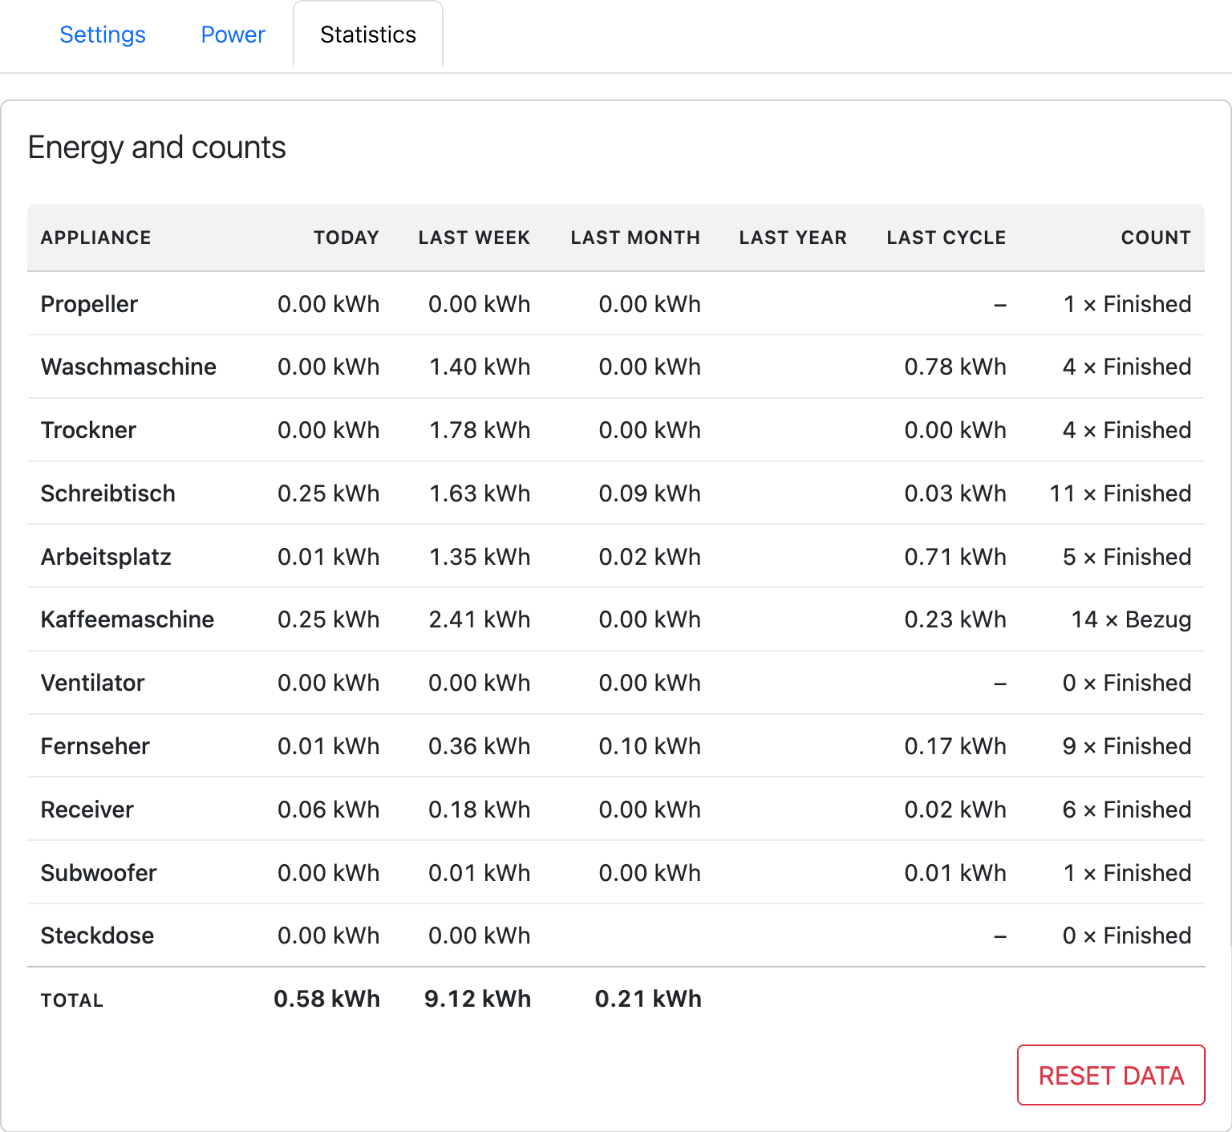
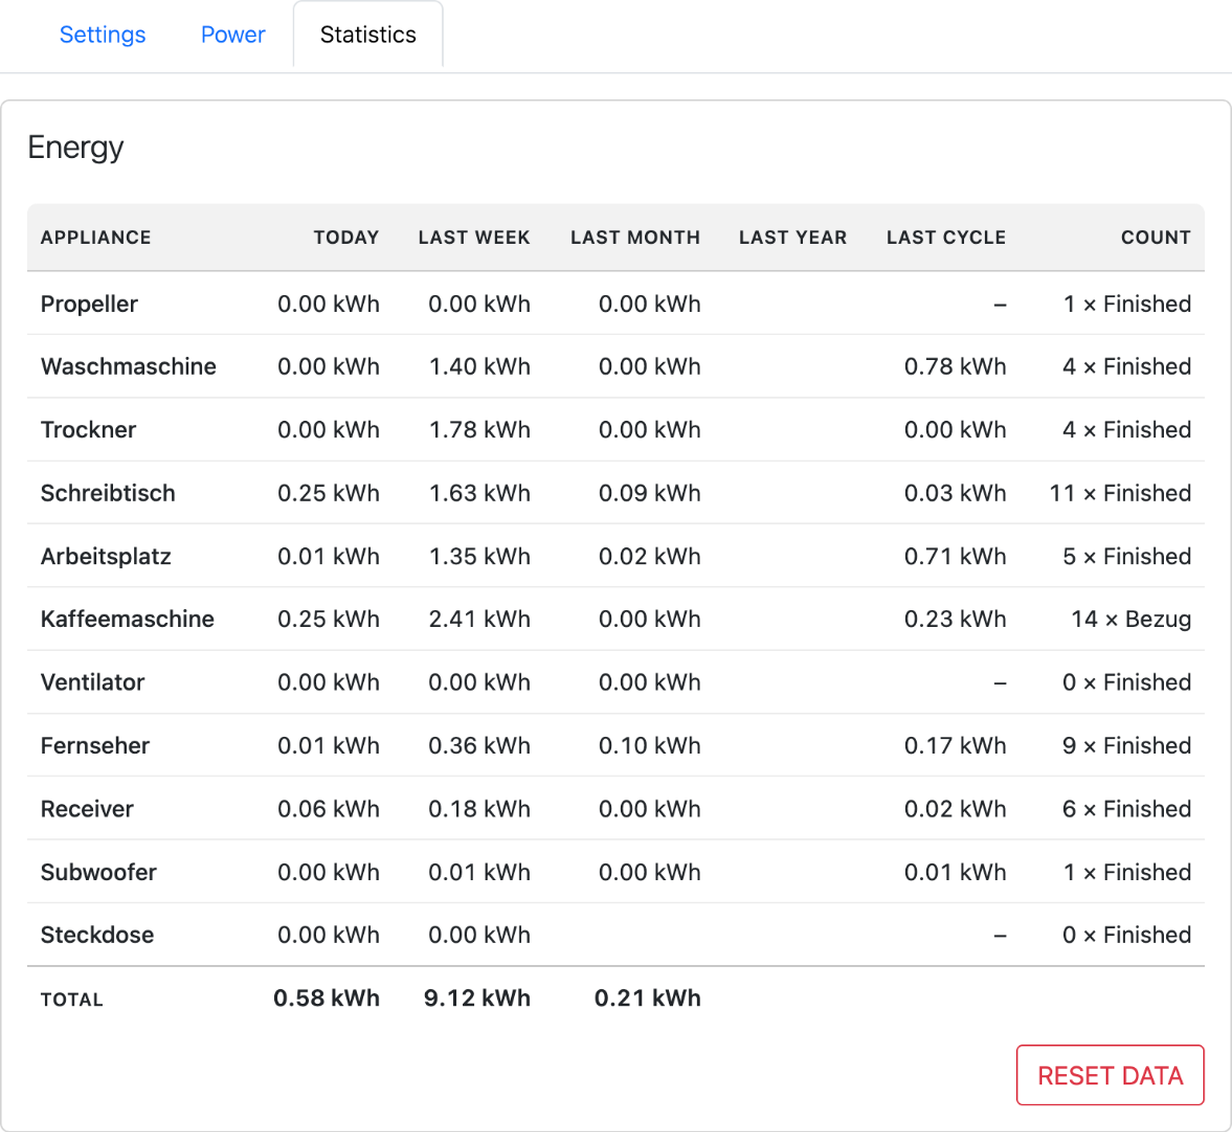
Settings page statistics headed Energy, as on the dashboard
New Statistics tab screenshots with the heading.

diff --git a/homebridge-ui/public/index.html b/homebridge-ui/public/index.html
@@ -87,7 +87,7 @@
 
 <div class="card mb-3 om-hidden" id="om-stats-card">
   <div class="card-body">
-    <h5 class="card-title mb-4">Energy and counts</h5>
+    <h5 class="card-title mb-4">Energy</h5>
     <div id="om-stats"></div>
     <p class="om-hint mb-0 om-hidden" id="om-stats-none">No plugs configured yet.</p>
   </div>

diff --git a/CHANGELOG.md b/CHANGELOG.md
@@ -6,6 +6,11 @@ adheres to [semantic versioning](https://semver.org/spec/v2.0.0.html).
 
 ## [Unreleased]
 
+### Changed
+
+- The Statistics tab of the settings page is headed **Energy**, as on the
+  dashboard, instead of "Energy and counts".
+
 ## [1.4.3] — 2026-10-14
 
 ### Changed
